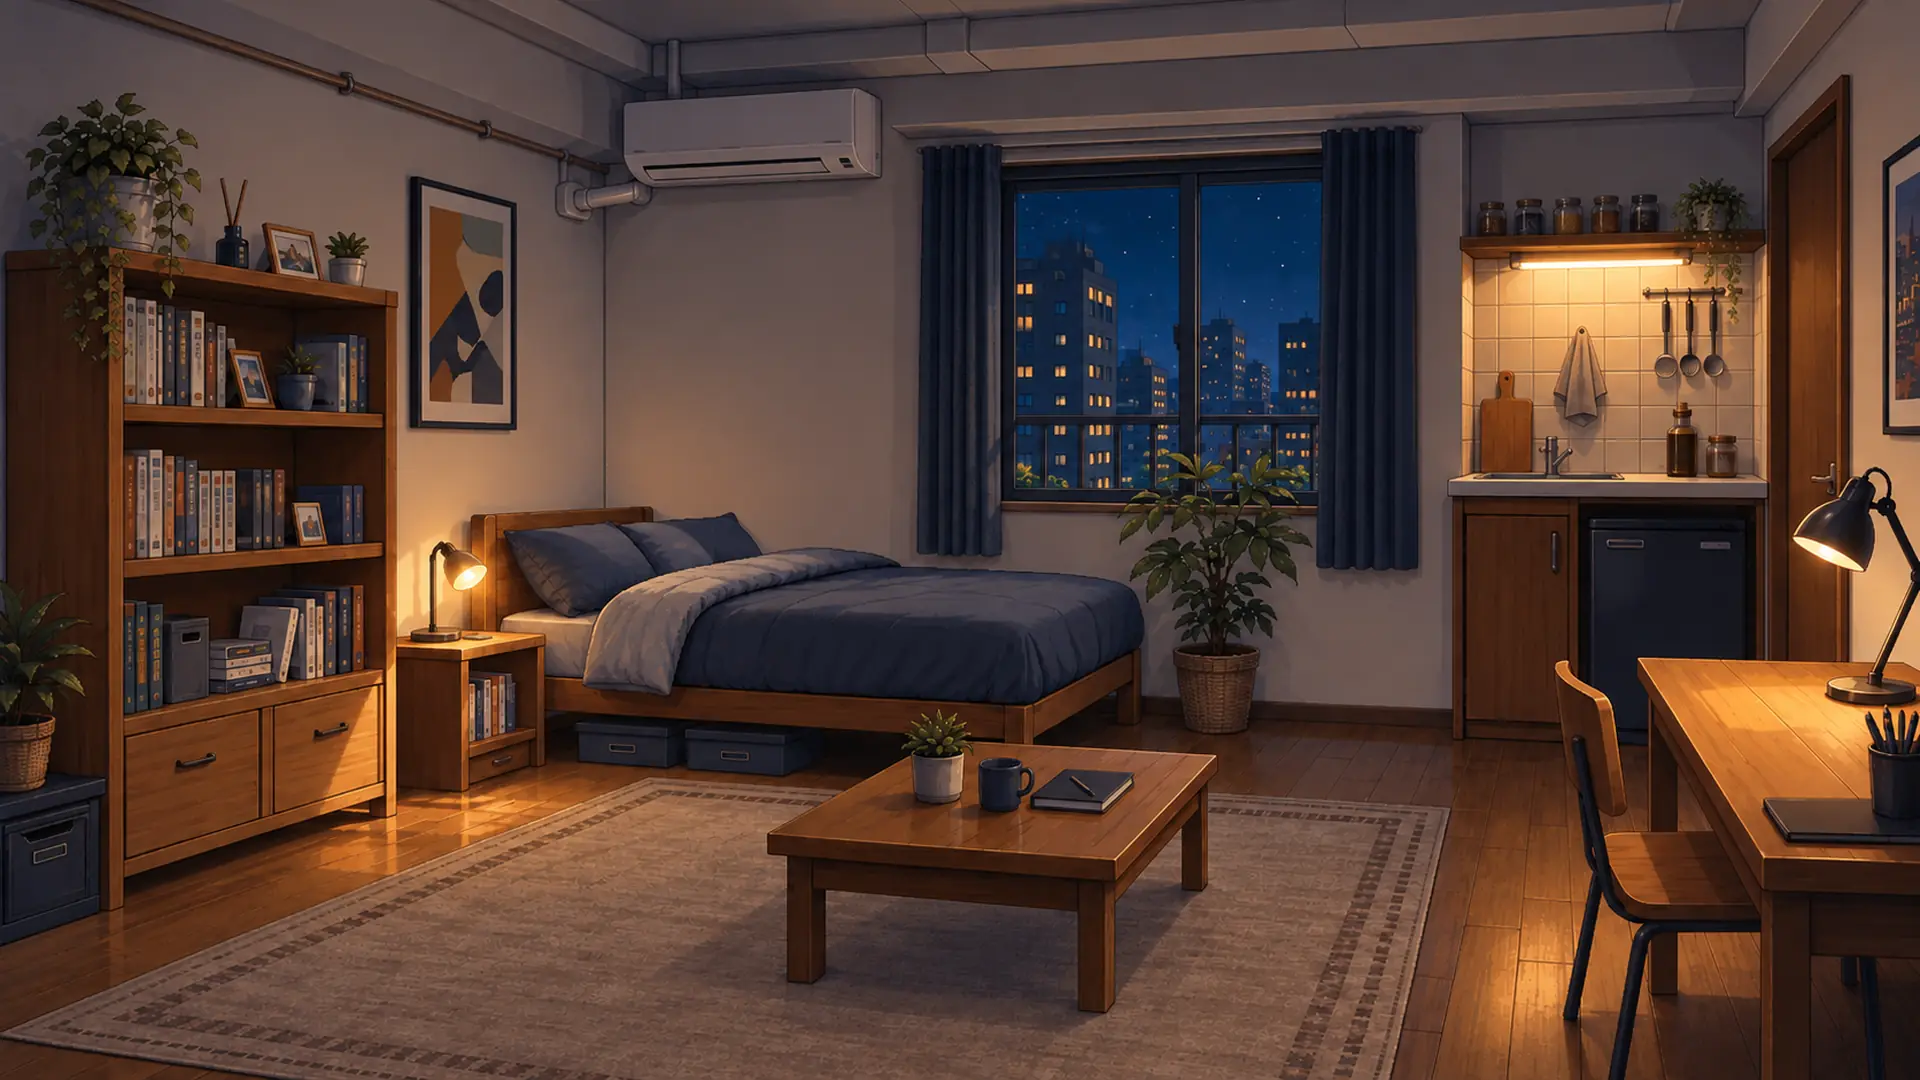
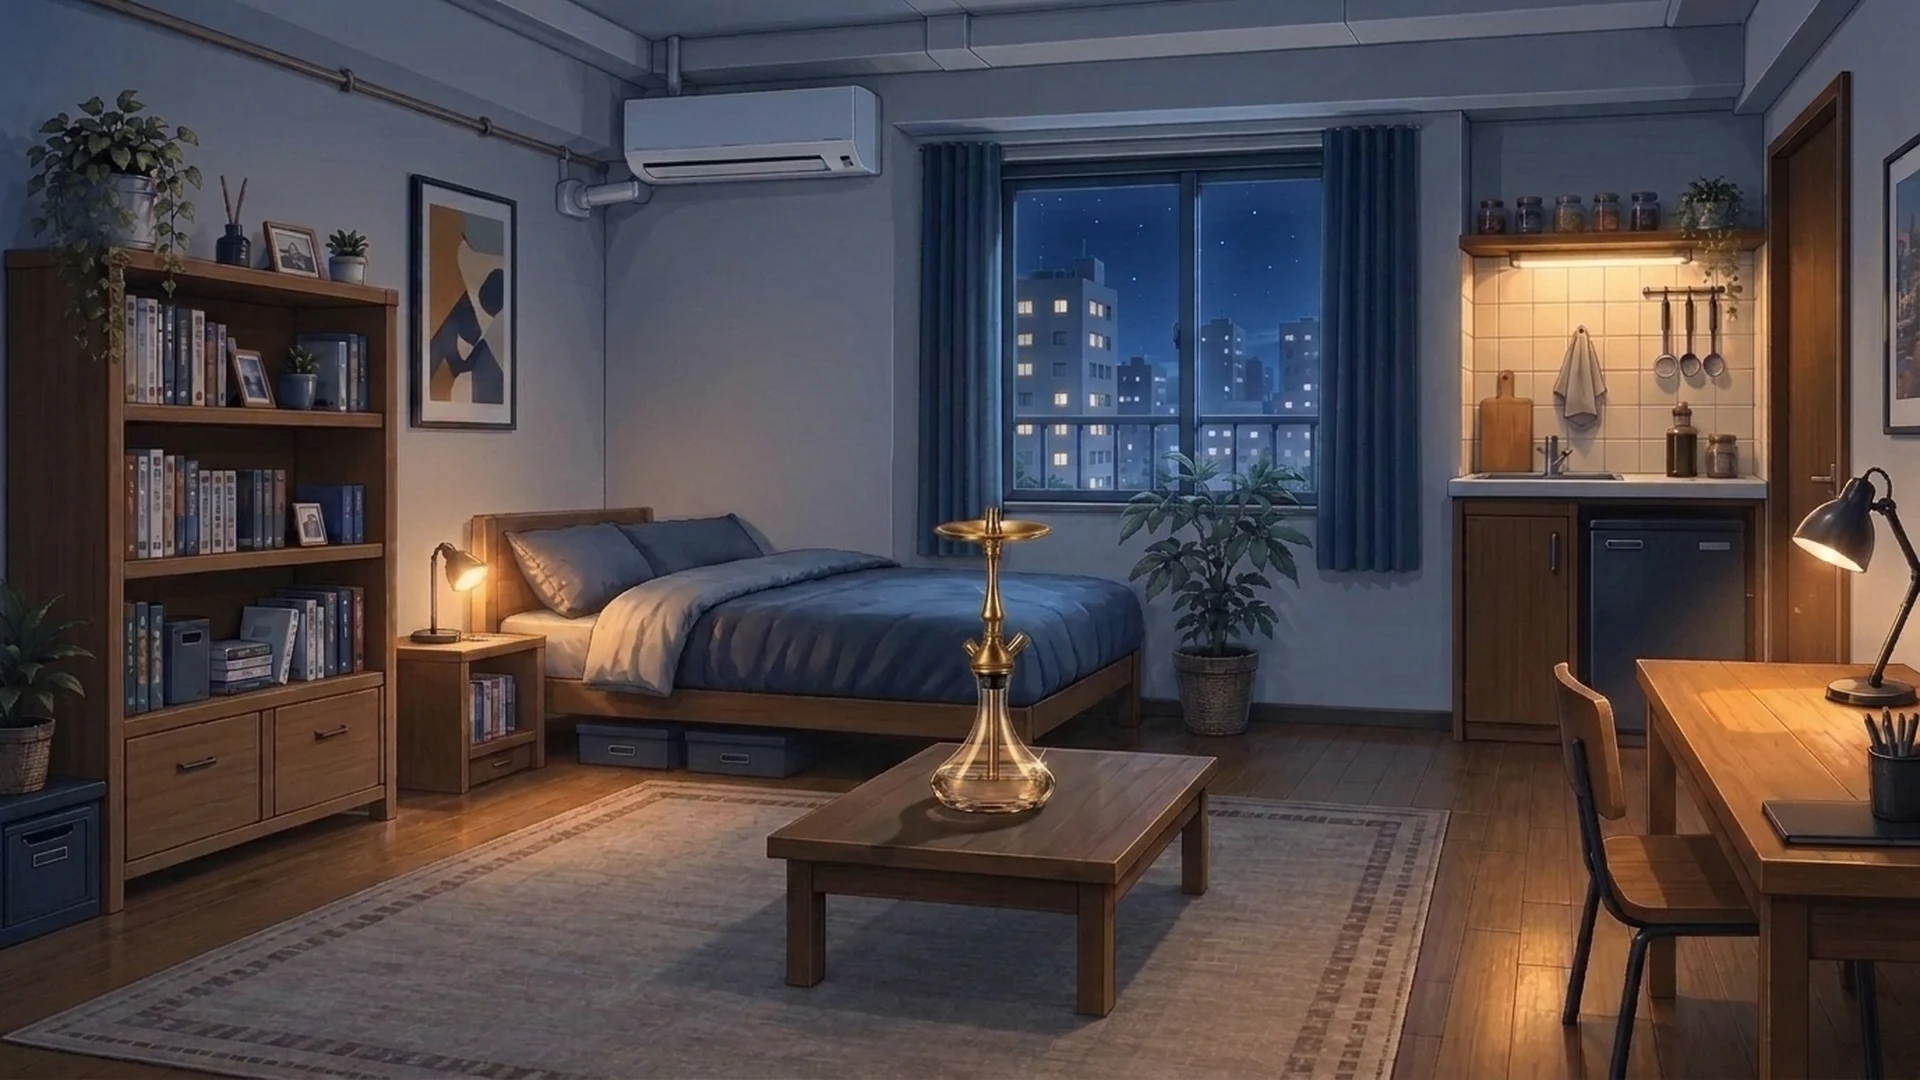
自室の夜背景を昼と同じ台の描き込みに差し替え、夜も重ね小物を出さない (Issue #3418)
昼背景（候補B・PR #3762）の絵を夜の明るさに編集した版へ bg_home_night.webp を差し替え。台は昼と同一（幅広の金トレイ・金のステム・ベル型フラスコ）で、scene-art.js は昼と同様に夜も重ね小物を返さない。原画 JPG を asset_sources/backgrounds/home-night-20261118/ に保管。home_rig_backgrounds の期待を夜の描き込みに合わせて更新（検証: home_rig_backgrounds 16/16 PASS、home_shisha 15 PASS / 0 FAIL）。

diff --git a/remake/js/core/scene-art.js b/remake/js/core/scene-art.js
@@ -84,9 +84,9 @@ function homeProps(available) {
 function propsFor(url, { homeRigs = true } = {}) {
   const available = new Set(DB.manifest.sceneProps || []);
   if (isHome(url)) {
-    // 昼の自室背景は台をローテーブルの真ん中へ描き込んだ絵（#3418・2026-11-18 オーナー採用の背景リメイク）。
-    // 所持品の台を重ねると台が二重になるので、昼だけ小道具を出さない。夜・曇天は描き込みが無いので従来どおり重ねる。
-    if (sceneFile(url) === "bg_home_day.png") return [];
+    // 昼・夜の自室背景は台をローテーブルの真ん中へ描き込んだ絵（#3418・2026-11-18 オーナー採用の背景リメイク、昼夜ペア）。
+    // 所持品の台を重ねると台が二重になるので、昼と夜は小道具を出さない。曇天は描き込みが無いので従来どおり重ねる。
+    if (sceneFile(url) === "bg_home_day.png" || sceneFile(url) === "bg_home_night.png") return [];
     return homeRigs ? homeProps(available) : [];
   }
   return (SCENE_PROPS[sceneFile(url)] || []).filter((p) => available.has(p.file));
